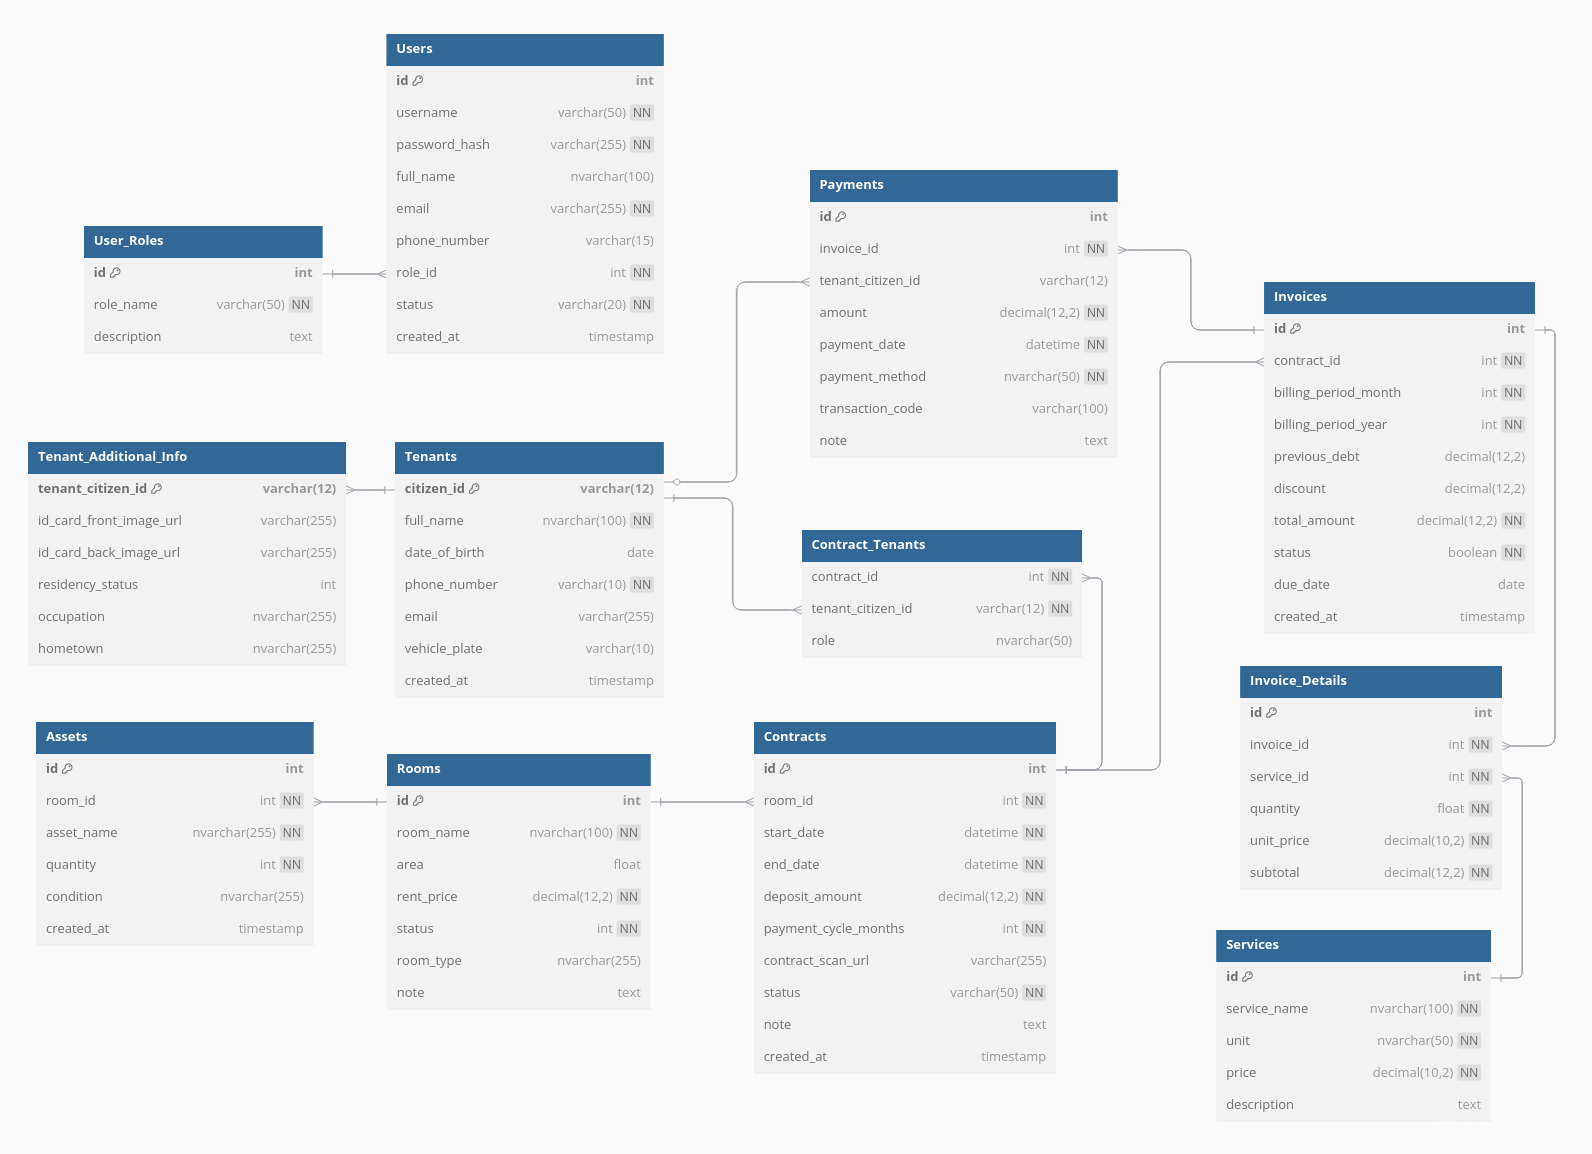
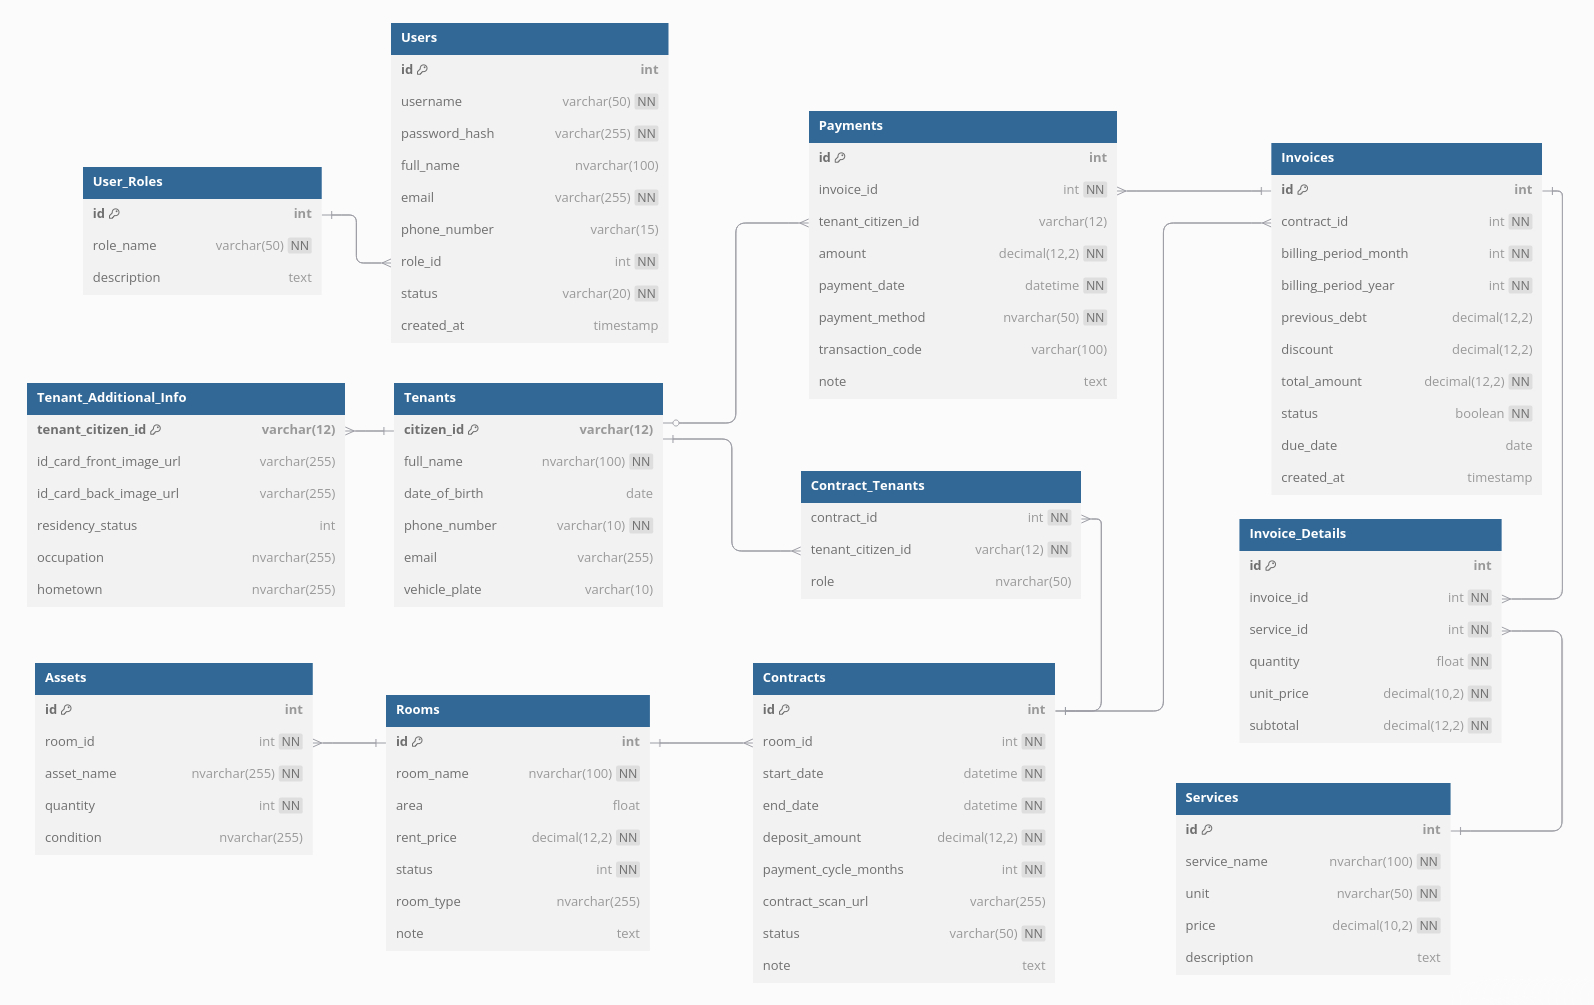
27/06/2025

diff --git a/src/main/java/entity/ContractTenant.java b/src/main/java/entity/ContractTenant.java
@@ -1,0 +1,19 @@
+package entity;
+
+import lombok.*;
+import lombok.experimental.FieldDefaults;
+
+@Data
+@AllArgsConstructor
+@NoArgsConstructor
+@Builder
+@FieldDefaults(level = AccessLevel.PRIVATE)
+public class ContractTenant {
+    int Contract_id ;
+    int Personal_id;
+    int Role;
+}
+
+enum eRoles {
+    Holder, Housemate;
+}

diff --git a/src/main/java/entity/InvoiceDetail.java b/src/main/java/entity/InvoiceDetail.java
@@ -1,0 +1,4 @@
+package entity;
+
+public class InvoiceDetail {
+}

diff --git a/src/main/java/entity/ServiceUsages.java b/src/main/java/entity/ServiceUsages.java
@@ -1,0 +1,4 @@
+package entity;
+
+public class ServiceUsages {
+}

diff --git a/src/main/java/entity/Invoice.java b/src/main/java/entity/Invoice.java
@@ -1,0 +1,4 @@
+package entity;
+
+public class Invoice {
+}

diff --git a/src/main/java/entity/Payment.java b/src/main/java/entity/Payment.java
@@ -1,0 +1,4 @@
+package entity;
+
+public class Payment {
+}

diff --git a/src/main/java/entity/Service.java b/src/main/java/entity/Service.java
@@ -1,0 +1,4 @@
+package entity;
+
+public class Service {
+}

diff --git a/src/main/java/entity/Role.java b/src/main/java/entity/Role.java
@@ -1,0 +1,4 @@
+package entity;
+
+public class Role {
+}

diff --git a/src/main/java/entity/User.java b/src/main/java/entity/User.java
@@ -1,0 +1,4 @@
+package entity;
+
+public class User {
+}
